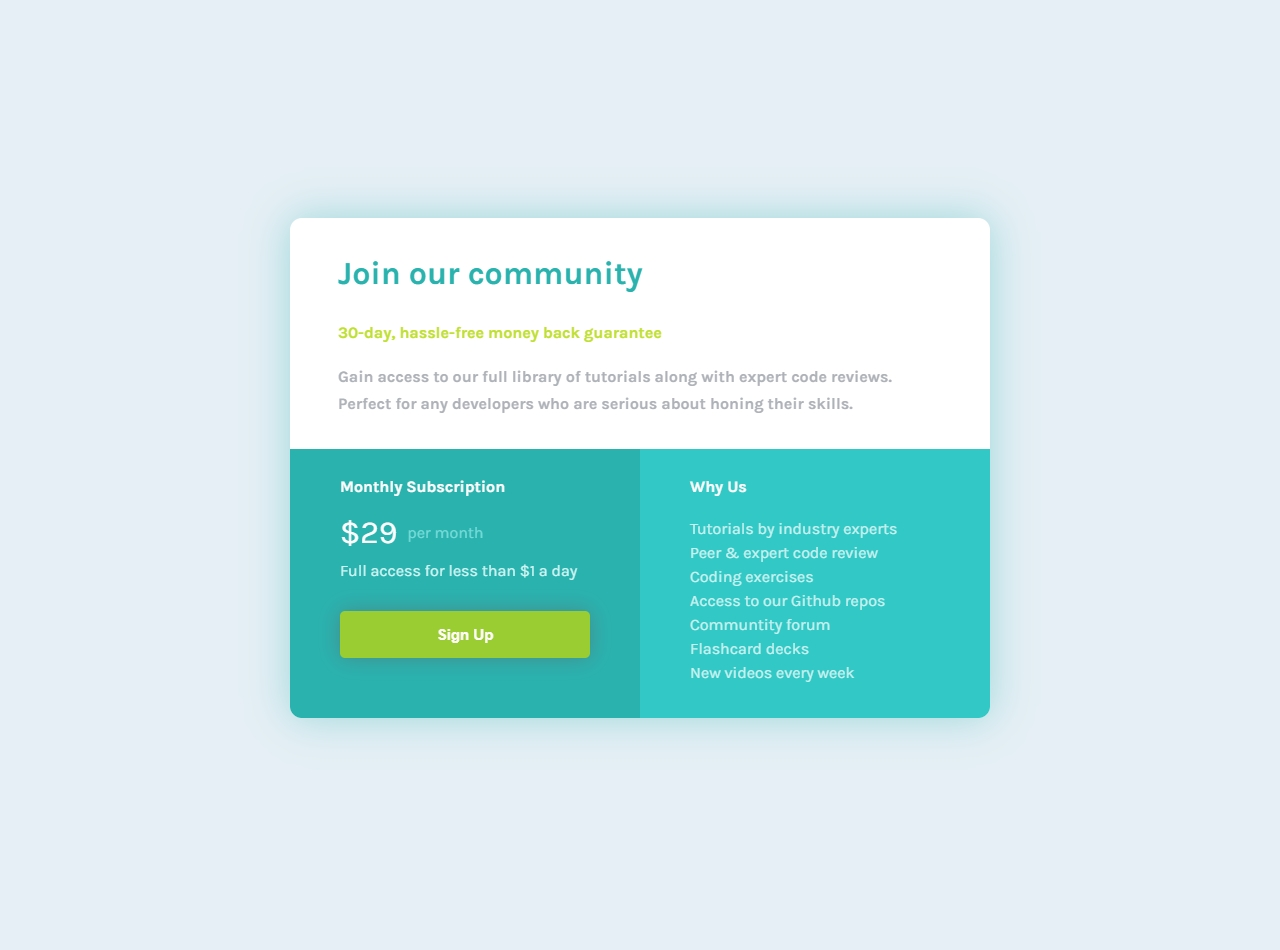
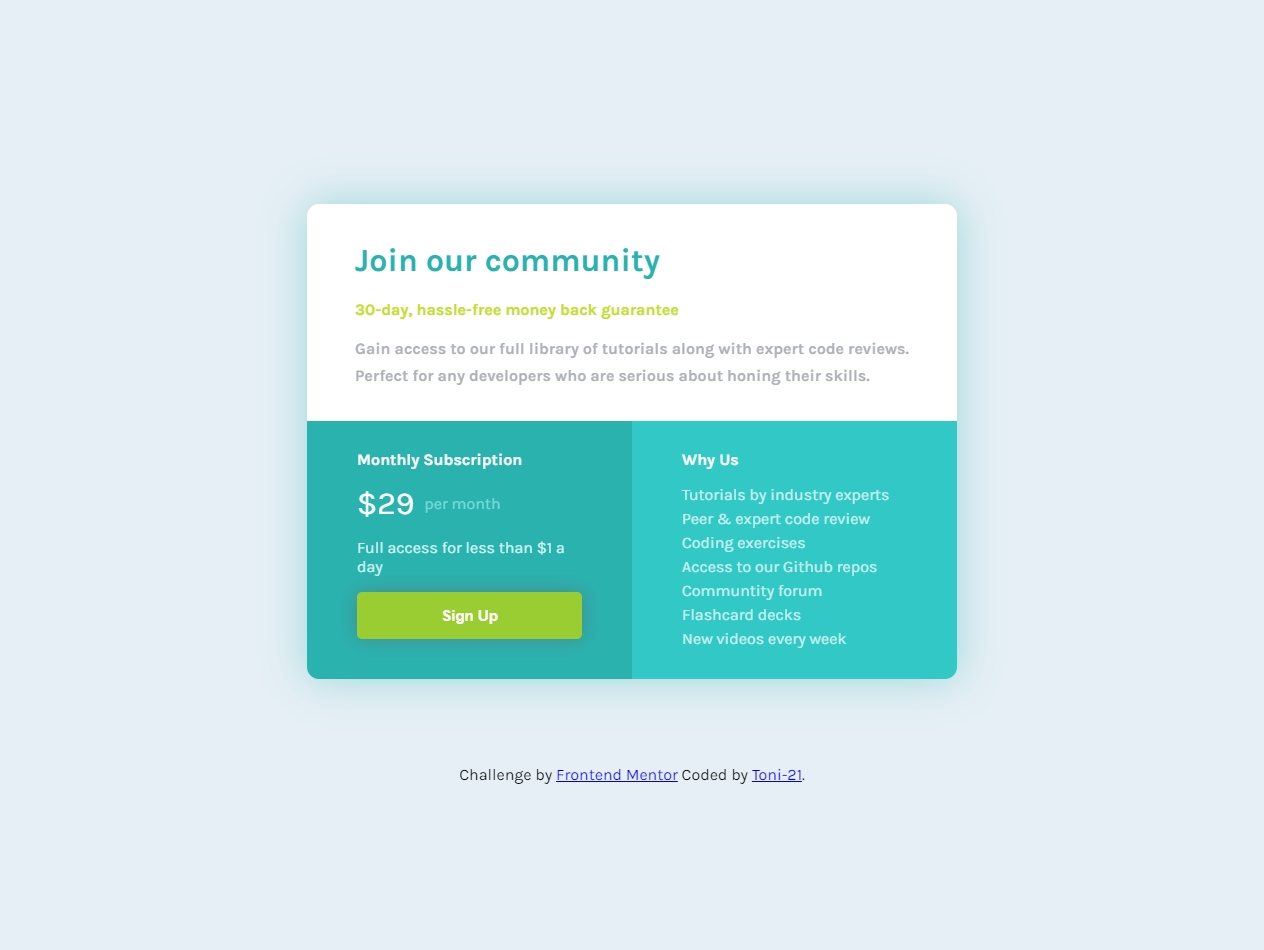
Mentor corrections taken, no reset

Changed region(s): [[0.216, 0.2137, 0.8022, 0.7632], [0.3703, 0.7937, 0.6171, 0.8242]]

diff --git a/style.css b/style.css
@@ -17,6 +17,8 @@
     /*============ FONT WEIGHT ==========*/
     --font-medium: 400;
     --font-bold: 700;
+    /*============ VERTICAL SPACING ==========*/
+    --v-space: 1rem;
 }
 
 * {
@@ -36,44 +38,39 @@ body {
 }
 
 .main {
-    width: 700px;
-    height: 500px;
-    display: flex;
-    flex-direction: column;
+    max-width: 920px;
+    margin: 70px 50px;
     background-color: white;
     border-radius: 12px;
+    display: grid;
+    grid-template-columns: 50% 50%;
     box-shadow: 0 0 40px rgba(43, 179, 177, 0.4);
 }
 
 .top_container {
-    display: flex;
-    flex-direction: column;
     padding: 16px 48px;
+    grid-column: 1/3;
     box-sizing: border-box;
+}
+
+.top_container>*+* {
+    margin-top: var(--v-space);
 }
 
 h1 {
     color: var(--cyan);
     font-weight: var(--font-bold);
-    margin-bottom: 15px;
 }
 
 .subtext {
     color: var(--bright_yellow);
     font-weight: var(--font-bold);
-    margin-bottom: 4.5px;
 }
 
 .subtext_decription {
     line-height: 1.7;
     color: #AEB1B8;
     font-weight: var(--font-bold);
-}
-
-.bottom_container {
-    display: flex;
-    flex-direction: row;
-    flex: 1 1;
 }
 
 h2 {
@@ -83,13 +80,14 @@ h2 {
 }
 
 .left_bottom_container {
-    display: flex;
-    flex-direction: column;
-    flex: 1 1;
     padding: 15px 50px;
     color: white;
     background-color: var(--cyan);
     border-radius: 0 0 0 12px;
+}
+
+.left_bottom_container>*+* {
+    margin-top: var(--v-space);
 }
 
 span {
@@ -99,15 +97,12 @@ span {
 }
 
 .price {
-    margin-top: 5px;
-    margin-bottom: 0;
     display: flex;
     align-items: center;
     color: #77DBD9;
 }
 
 .price_desc {
-    margin-top: 10px;
     color: #d1f5f4;
 }
 
@@ -119,7 +114,6 @@ span {
     font-weight: var(--font-bold);
     text-align: center;
     padding: 15px 0;
-    margin-top: 15px;
     border-radius: 5px;
     border-style: none;
     box-shadow: 0 0 20px rgba(100, 100, 100, 0.5);
@@ -131,10 +125,7 @@ span {
 }
 
 .right_bottom_container {
-    display: flex;
-    flex-direction: column;
     align-content: flex-start;
-    flex: 1 1;
     padding: 15px 50px;
     color: white;
     background-color: var(--light_cyan);
@@ -142,7 +133,6 @@ span {
 }
 
 ul {
-    margin-top: 5px;
     list-style: none;
     padding: 0;
 }
@@ -156,13 +146,13 @@ li {
     .main {
         width: auto;
         height: auto;
-        margin: 50px 30px;
-        /*]\ margin-top: 3rem;
-        margin-bottom: 3rem; */
+        margin: 55px 30px;
         border-radius: 5px;
+        display: flex;
+        flex-direction: column;
     }
     body {
-        font-size: 12px;
+        font-size: 15px;
     }
     .top_container {
         padding: 20px;
@@ -172,9 +162,6 @@ li {
     }
     h1 {
         font-size: 1.3rem;
-    }
-    .bottom_container {
-        flex-direction: column;
     }
     .left_bottom_container {
         padding: 20px;
@@ -186,5 +173,10 @@ li {
     }
     .sign_up {
         margin-bottom: 5px;
+    }
+    footer {
+        margin: 0;
+        color: #656566;
+        text-align: center;
     }
 }

diff --git a/index.html b/index.html
@@ -20,32 +20,34 @@
                 Gain access to our full library of tutorials along with expert code reviews. <br> Perfect for any developers who are serious about honing their skills.
             </p>
         </div>
-        <div class="bottom_container">
-            <div class="left_bottom_container" id="sub_div">
-                <h2>Monthly Subscription</h2>
-                <p class="price"> <span> &dollar;29</span> per month</p>
-                <p class="price_desc">
-                    Full access for less than $1 a day
-                </p>
-                <input type="button" class="sign_up" value="Sign Up">
-            </div>
-            <div class="right_bottom_container" id="why_div">
-                <h2>Why Us</h2>
-                <ul>
-                    <li>Tutorials by industry experts</li>
-                    <li>Peer & expert code review</li>
-                    <li>Coding exercises</li>
-                    <li>Access to our Github repos</li>
-                    <li>Communtity forum</li>
-                    <li>Flashcard decks</li>
-                    <li>New videos every week</li>
-                </ul>
-            </div>
+        <div class="left_bottom_container" id="sub_div">
+            <h2>Monthly Subscription</h2>
+            <p class="price"> <span> &dollar;29</span> per month</p>
+            <p class="price_desc">
+                Full access for less than $1 a day
+            </p>
+            <a href="#">
+                <button type="submit" class="sign_up"> Sign Up</button>
+            </a>
         </div>
-
-
+        <div class="right_bottom_container" id="why_div">
+            <h2>Why Us</h2>
+            <ul>
+                <li>Tutorials by industry experts</li>
+                <li>Peer & expert code review</li>
+                <li>Coding exercises</li>
+                <li>Access to our Github repos</li>
+                <li>Communtity forum</li>
+                <li>Flashcard decks</li>
+                <li>New videos every week</li>
+            </ul>
+        </div>
     </div>
-
+    <footer>
+        <p class="attribution">
+            Challenge by <a href="https://www.frontendmentor.io?ref=challenge" target="_blank">Frontend Mentor</a> Coded by <a href="https://github.com/toni-21" target="_blank">Toni-21</a>.
+        </p>
+    </footer>
 </body>
 
 </html>
